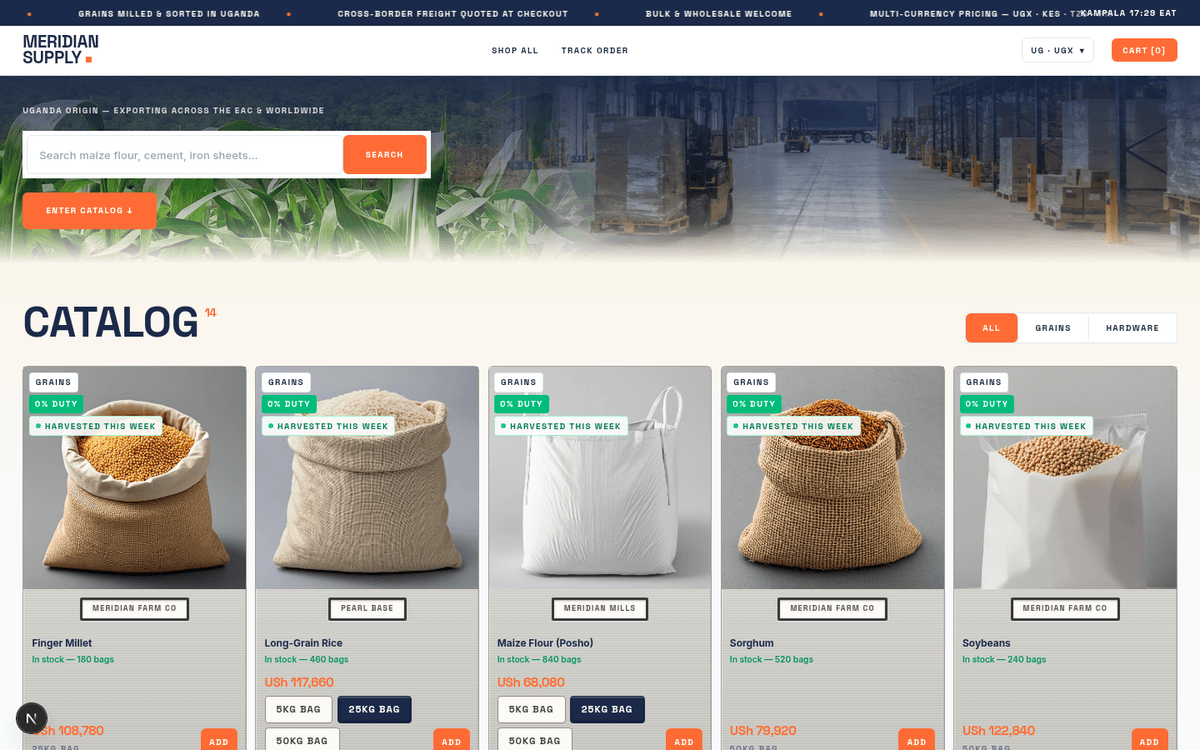
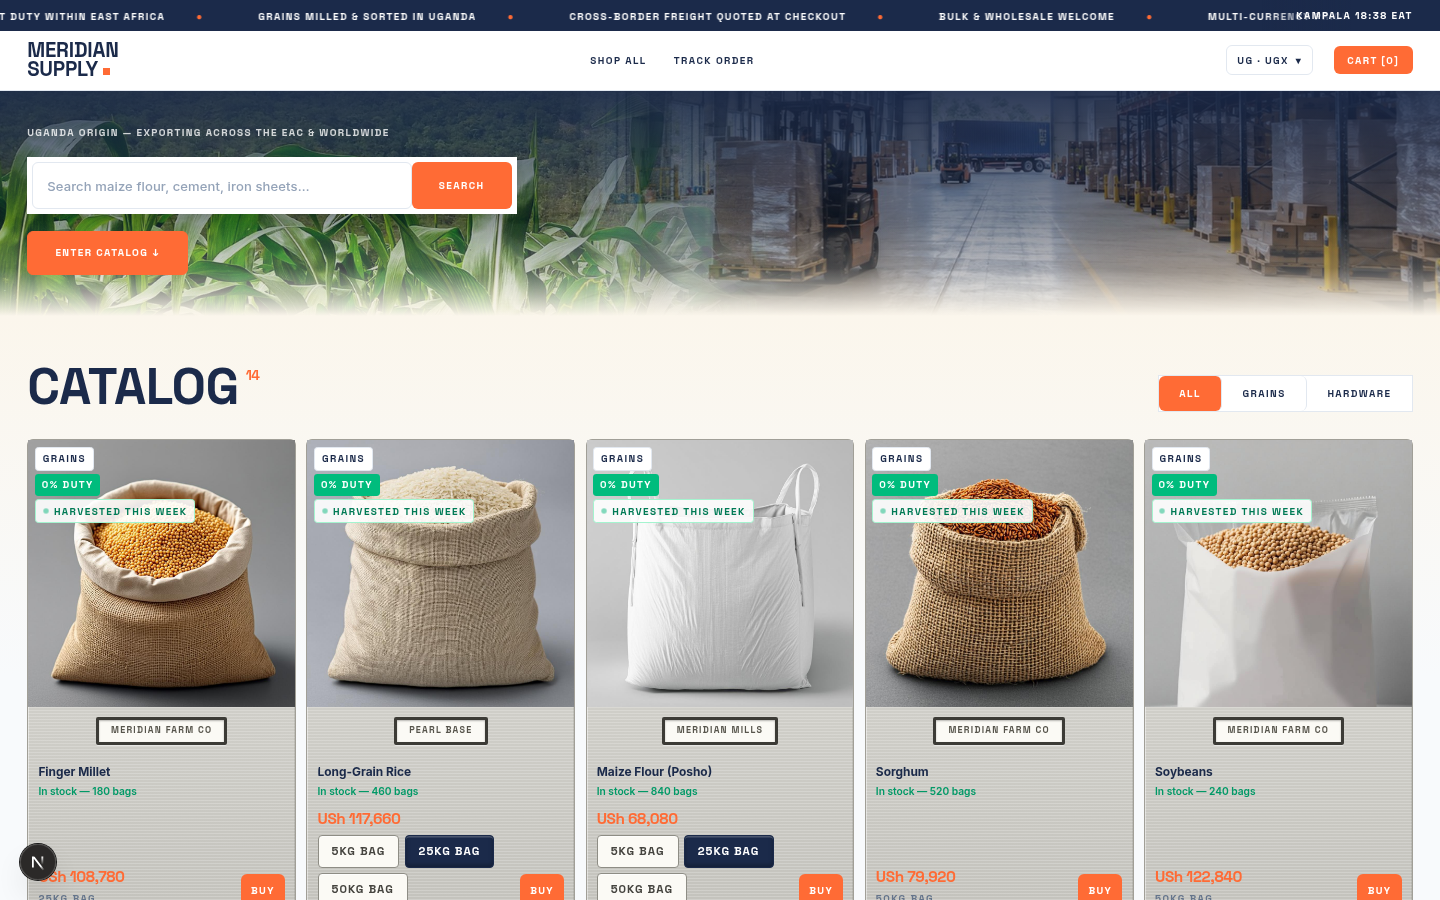
Update README screenshots and copy for the BUY + quick-view catalog (drawer removed)

diff --git a/README.md b/README.md
@@ -2,28 +2,33 @@
 
 A cross-border e-commerce storefront for a Ugandan exporter of grain and hardware equipment — built to make regional trade feel as solid and physical as the goods being sold.
 
-The catalog is designed as a wall of steel filing cabinets: hover a product tile and its drawer cracks open; click and the drawer slides fully out to reveal the product data stamped inside. Behind the storefront sits a region-aware pricing engine that estimates duties, VAT and freight for every East African Community (EAC) destination before checkout.
+The catalog tiles read as painted-steel cabinet faces: every tile carries weight-pack switches, live stock and a **BUY** button that opens a spec-sheet dialog where the pack and quantity are chosen before adding to the cart. Behind the storefront sits a region-aware pricing engine that estimates duties, VAT and freight for every East African Community (EAC) destination before checkout.
 
 ## Screenshots
 
-| Shop | Drawer interaction |
+| Shop | Catalog |
 |---|---|
-| ![Catalog at rest](docs/screenshots/01-shop-hero.png) | ![Drawer pulled out](docs/screenshots/03-drawer-open.png) |
-| *Catalog at rest — a wall of steel cabinets* | *Hover cracks a drawer; click pulls it fully out* |
+| ![Shop hero](docs/screenshots/01-shop-hero.png) | ![Catalog tiles](docs/screenshots/02-catalog.png) |
+| *Living-sky hero with live search and EAC ticker* | *Steel tiles with weight-pack switches and BUY* |
 
-| Spec sheet | Checkout |
+| Quick view | Cart |
 |---|---|
-| ![Spec sheet](docs/screenshots/04-spec-sheet.png) | ![Checkout](docs/screenshots/05-checkout.png) |
-| *Full spec sheet with pack selection* | *Duty, VAT and freight quoted per destination* |
+| ![Quick view](docs/screenshots/03-quick-view.png) | ![Cart drawer](docs/screenshots/04-cart.png) |
+| *BUY opens the spec sheet: pack selector + quantity stepper* | *Duty, VAT and freight quoted live in the cart* |
+
+| Checkout |
+|---|
+| ![Checkout](docs/screenshots/05-checkout.png) |
+| *Destination-aware totals and regional payment methods* |
 
 ---
 
 ## Features
 
 **Catalog**
-- Product grid (2–6 columns, responsive) of cabinet-style tiles with a physical drawer interaction: hover cracks the drawer, clicking pulls it fully open to reveal SKU, HS code, origin, net weight and live stock
-- Weight-pack switcher on every card (e.g. 25 KG / 50 KG bags) — price and drawer data update together
-- Quick-view spec sheet dialog with full product details and pack selection
+- Product grid (2–6 columns, responsive) of painted-steel tiles with weight-pack switches, live stock counts and a BUY button per tile
+- Weight-pack switcher on every card (e.g. 25 KG / 50 KG bags) — the tile price updates instantly
+- BUY opens the quick-view spec sheet: full product details, pack selection and a quantity stepper before adding to cart
 - Live search from the hero section
 
 **Cross-border pricing**
@@ -102,7 +107,7 @@ src/
   app/
     page.tsx              # storefront shell: shop / checkout / confirmation / track views
     layout.tsx            # fonts (Space Grotesk + Inter), global chrome
-    globals.css           # design system incl. the cabinet/drawer interaction styles
+    globals.css           # design system (steel-tile catalog, motion, labels)
     api/
       products/route.ts   # GET   catalog with variants + stock
       fx/route.ts         # GET   region configs: currency, FX rate, duty, VAT, freight
@@ -110,8 +115,8 @@ src/
   components/storefront/
     header.tsx            # brand, region selector, cart badge, navigation
     hero.tsx              # living-sky hero with search
-    product-grid.tsx      # cabinet tiles + drawer + weight-pack toggles
-    quick-view.tsx        # full spec sheet dialog
+    product-grid.tsx      # steel tiles, weight-pack toggles, BUY -> quick view
+    quick-view.tsx        # spec sheet dialog: pack selector + quantity stepper
     cart-drawer.tsx       # cart panel
     checkout.tsx          # customer + delivery details, price breakdown
     confirmation.tsx      # order confirmation
@@ -151,7 +156,7 @@ scripts/                  # seeding + image tooling
 
 - **Palette:** navy ink `#1B2A4A`, brand orange `#E8622C`, paper white, hairline greys
 - **Type:** Space Grotesk (display) + Inter (body), uppercase letterspaced labels
-- **Interaction contract:** the catalog behaves like real hardware — hover cracks a drawer open, click pulls it out with mechanical easing (instant catch, constant travel, hard stop), and closing slams shut. All depth is drawn with inset shadows; nothing floats.
+- **Interaction contract:** hardware-feel feedback — a cursor spotlight sheen drifts across the steel tiles, every button depresses on press, and adding flies a dot into the cart badge. All depth is drawn with inset shadows; nothing floats; motion respects `prefers-reduced-motion`.
 
 ## Deployment
 
